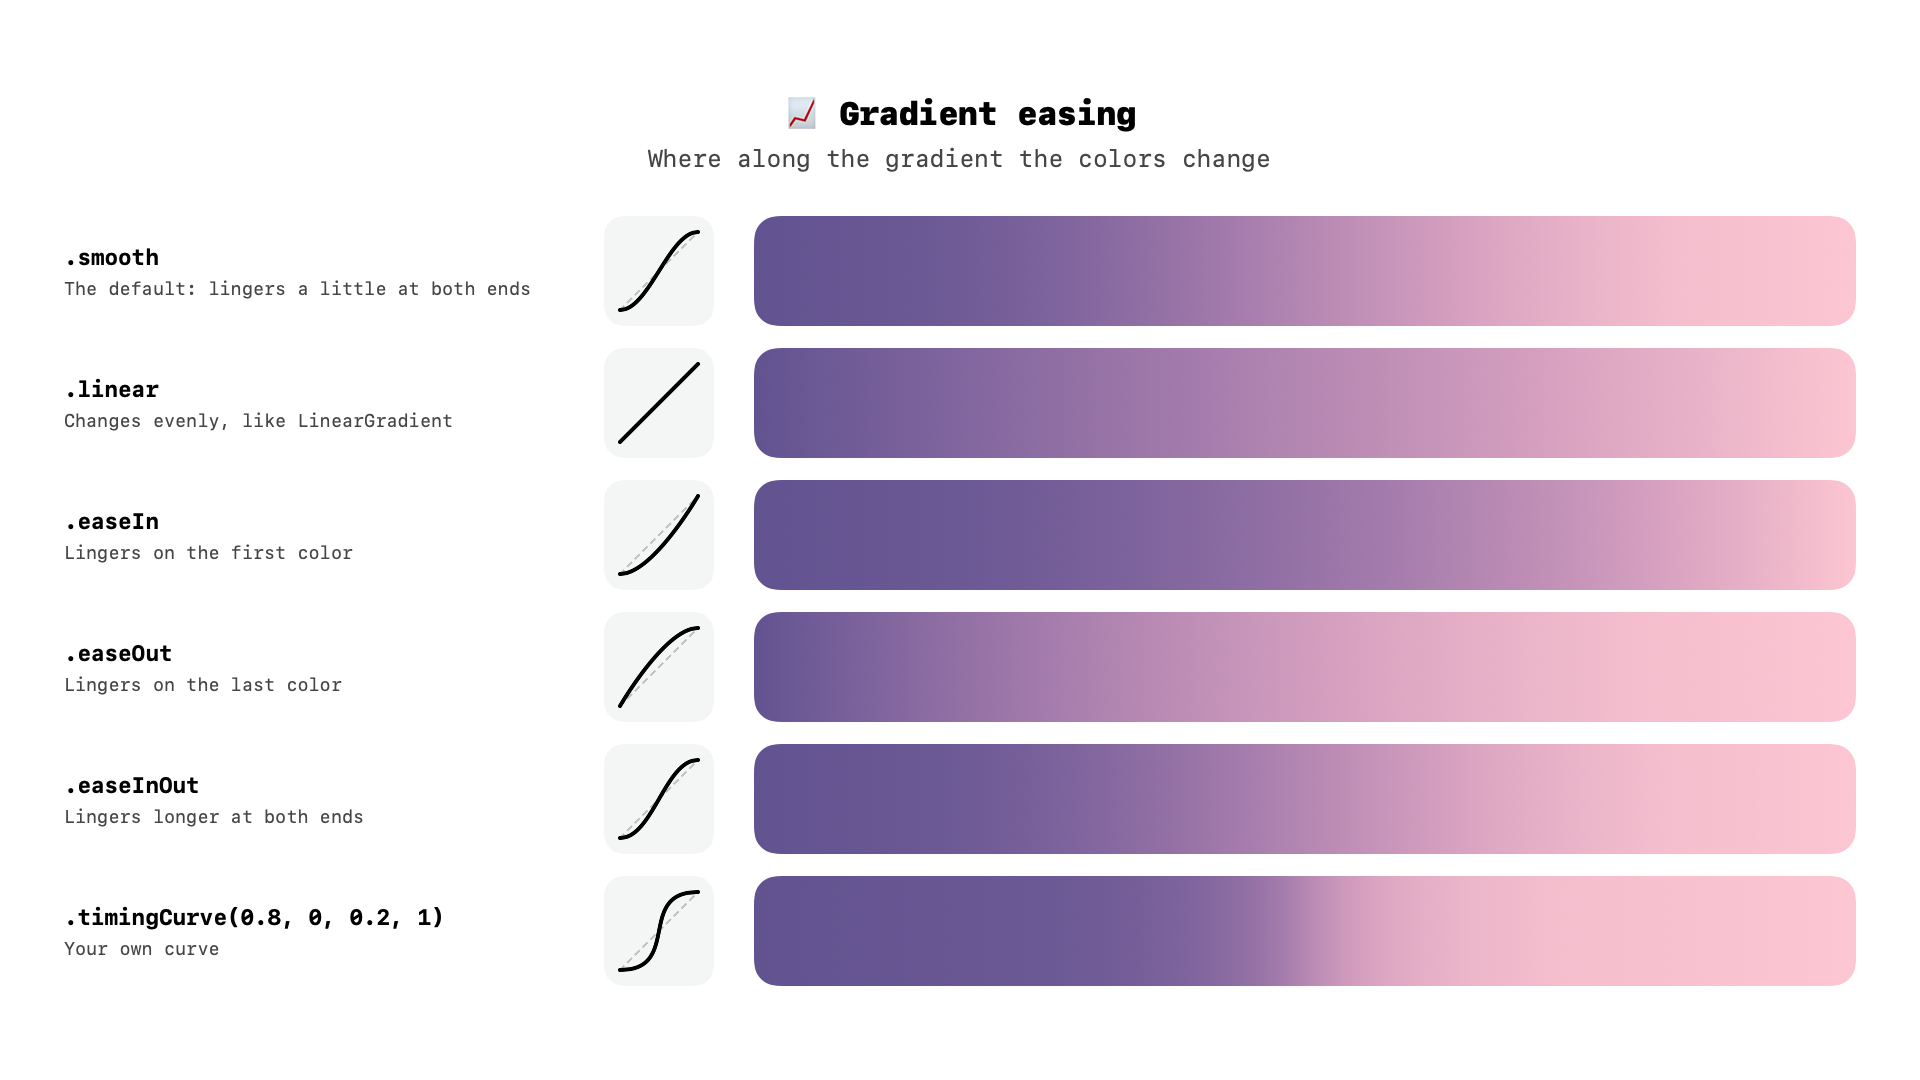
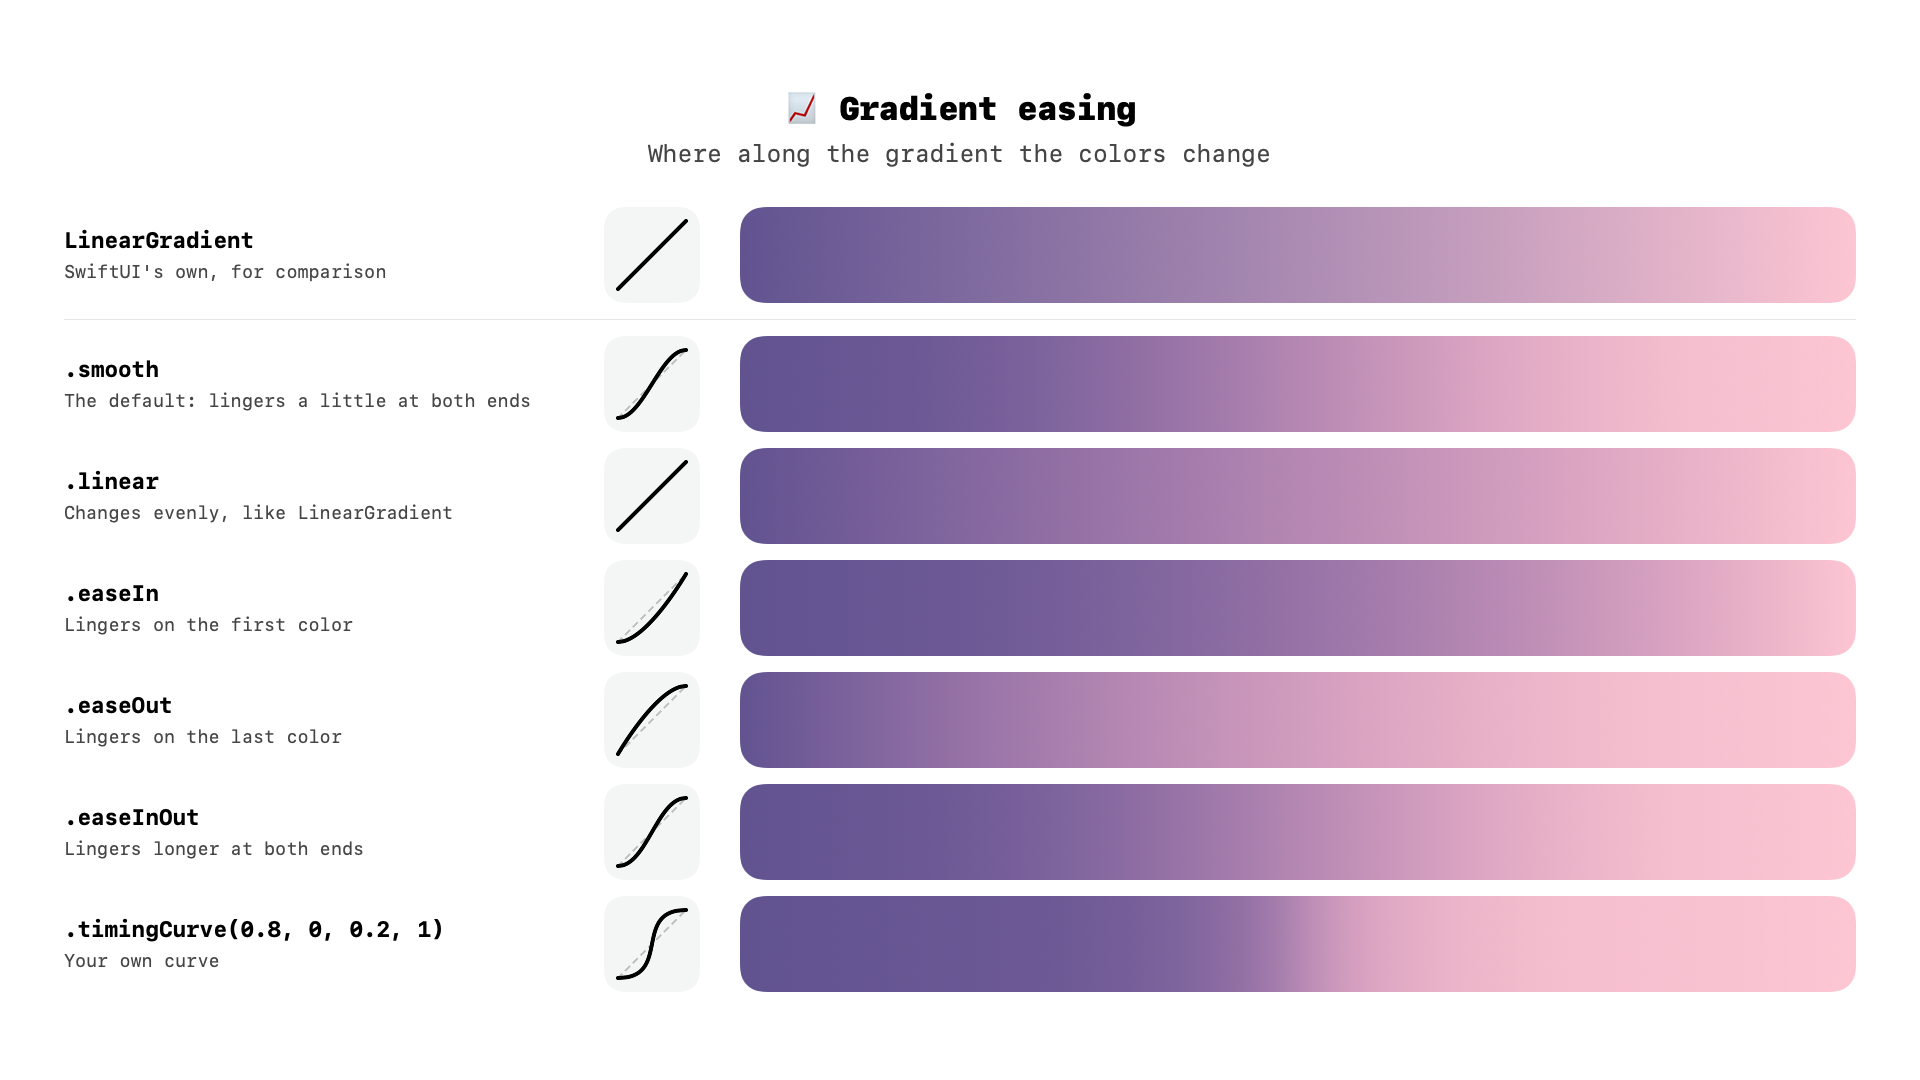
Show SwiftUI's own gradient first in the easing image
A plain LinearGradient of the same two colors, above the easings, so the
difference is visible at a glance.

diff --git a/Tests/ColorTokensKitTests/Marketing/Views/GradientEasingView.swift b/Tests/ColorTokensKitTests/Marketing/Views/GradientEasingView.swift
@@ -1,7 +1,7 @@
 @testable import ColorTokensKit
 import SwiftUI
 
-/// README image: every easing, with its curve and the gradient it makes.
+/// README image: SwiftUI's own gradient, then every easing, with its curve and the gradient it makes.
 struct GradientEasingView: View {
     private struct Row {
         let name: String
@@ -21,7 +21,7 @@ struct GradientEasingView: View {
     private let colors = [Color.proViolet._700.toColor(), Color.proPink._200.toColor()]
 
     var body: some View {
-        VStack(spacing: 44) {
+        VStack(spacing: 40) {
             VStack(spacing: 12) {
                 Text("📈 Gradient easing")
                     .font(.system(size: 32, weight: .black))
@@ -31,23 +31,21 @@ struct GradientEasingView: View {
                     .foregroundStyle(Color.foregroundTertiary)
             }
 
-            VStack(spacing: 22) {
-                ForEach(rows, id: \.name) { row in
-                    HStack(spacing: 40) {
-                        VStack(alignment: .leading, spacing: 8) {
-                            Text(row.name)
-                                .font(.system(size: 22, weight: .bold))
-                                .foregroundStyle(Color.foregroundPrimary)
-                            Text(row.note)
-                                .font(.system(size: 18, weight: .regular))
-                                .foregroundStyle(Color.foregroundTertiary)
-                        }
-                        .frame(width: 500, alignment: .leading)
-                        curve(row.easing)
-                        RoundedRectangle(cornerRadius: 24)
-                            .fill(colors.proGradient(from: .leading, to: .trailing, easing: row.easing))
-                            .frame(height: 110)
-                    }
+            VStack(spacing: 16) {
+                row(
+                    "LinearGradient",
+                    note: "SwiftUI's own, for comparison",
+                    easing: .linear,
+                    fill: LinearGradient(colors: colors, startPoint: .leading, endPoint: .trailing)
+                )
+                Divider()
+                ForEach(rows, id: \.name) { item in
+                    row(
+                        item.name,
+                        note: item.note,
+                        easing: item.easing,
+                        fill: colors.proGradient(from: .leading, to: .trailing, easing: item.easing)
+                    )
                 }
             }
         }
@@ -55,6 +53,24 @@ struct GradientEasingView: View {
         .padding(MarketingStyle.pagePadding)
         .frame(maxWidth: .infinity, maxHeight: .infinity)
         .background(Color.white)
+    }
+
+    private func row(_ name: String, note: String, easing: ProGradient.Easing, fill: some ShapeStyle) -> some View {
+        HStack(spacing: 40) {
+            VStack(alignment: .leading, spacing: 8) {
+                Text(name)
+                    .font(.system(size: 22, weight: .bold))
+                    .foregroundStyle(Color.foregroundPrimary)
+                Text(note)
+                    .font(.system(size: 18, weight: .regular))
+                    .foregroundStyle(Color.foregroundTertiary)
+            }
+            .frame(width: 500, alignment: .leading)
+            curve(easing)
+            RoundedRectangle(cornerRadius: 24)
+                .fill(fill)
+                .frame(height: 96)
+        }
     }
 
     /// The easing's curve over a dashed line for `.linear`.
@@ -65,8 +81,8 @@ struct GradientEasingView: View {
             EasingCurve(easing: easing)
                 .stroke(Color.foregroundPrimary, style: StrokeStyle(lineWidth: 4, lineCap: .round, lineJoin: .round))
         }
-        .padding(16)
-        .frame(width: 110, height: 110)
+        .padding(14)
+        .frame(width: 96, height: 96)
         .background(Color.proGray._100.toColor(), in: RoundedRectangle(cornerRadius: 20))
     }
 }
